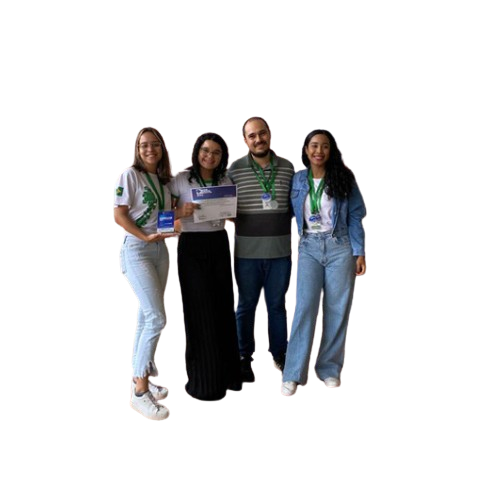
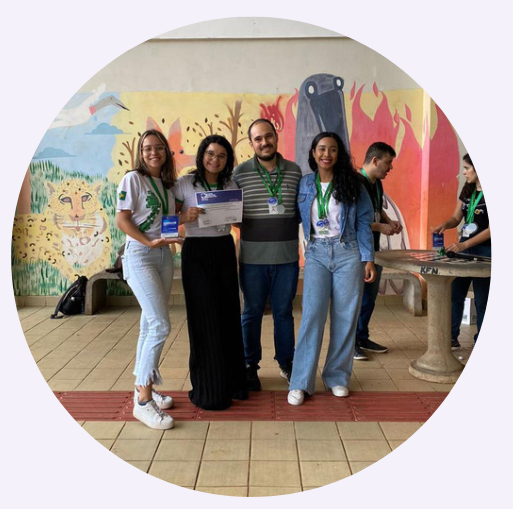
Modificacao na pag sobre e noticias

diff --git a/hiperagames-app/src/components/Telas/TDAHNews.vue b/hiperagames-app/src/components/Telas/TDAHNews.vue
@@ -1,14 +1,14 @@
 <template>
     <div class="fundo-branco">
-      <img class="logo" :src="logo3" />
-      <img class="linha" :src="logo4" />
+      <img class="logo" :src="logo" />
+      <img class="linha" :src="linha" />
       <br />
       <br />
       <br />
       <ul class="noticias">
         <li class="n1">
           <a>
-            <img class="imgNoticia" :src="logo5" />
+            <img class="imgNoticia" :src="nt1" />
             <div>
               <div>
                 <a
@@ -26,13 +26,13 @@
           </a>
           <br />
           <br />
-          <img class="linhall" :src="logo6" />
+          <img class="linhall" :src="linhall" />
           <br />
           <br />
         </li>
         <li class="n1">
           <a>
-            <img class="imgNoticia" :src="logo7" />
+            <img class="imgNoticia" :src="nt2" />
             <div>
               <div>
                 <a
@@ -53,13 +53,13 @@
           </a>
           <br />
           <br />
-          <img class="linhall" :src="logo6" />
+          <img class="linhall" :src="linhall" />
           <br />
           <br />
         </li>
         <li class="n1">
           <a>
-            <img class="imgNoticia" :src="logo8" />
+            <img class="imgNoticia" :src="nt3" />
             <div>
               <div>
                 <a
@@ -80,13 +80,13 @@
           </a>
           <br />
           <br />
-          <img class="linhall" :src="logo6" />
+          <img class="linhall" :src="linhall" />
           <br />
           <br />
         </li>
         <li class="n1">
           <a>
-            <img class="imgNoticia" :src="logo9" />
+            <img class="imgNoticia" :src="nt4" />
             <div>
               <div>
                 <a
@@ -106,13 +106,13 @@
           </a>
           <br />
           <br />
-          <img class="linhall" :src="logo6" />
+          <img class="linhall" :src="linhall" />
           <br />
           <br />
         </li>
         <li class="n1">
           <a>
-            <img class="imgNoticia" :src="logo10" />
+            <img class="imgNoticia" :src="nt5" />
             <div>
               <div>
                 <a
@@ -132,13 +132,13 @@
           </a>
           <br />
           <br />
-          <img class="linhall" :src="logo6" />
+          <img class="linhall" :src="linhall" />
           <br />
           <br />
         </li>
         <li class="n1">
           <a>
-            <img class="imgNoticia" :src="logo11" />
+            <img class="imgNoticia" :src="nt6" />
             <div>
               <div>
                 <a
@@ -159,13 +159,13 @@
           </a>
           <br />
           <br />
-          <img class="linhall" :src="logo6" />
+          <img class="linhall" :src="linhall" />
           <br />
           <br />
         </li>
         <li class="n1">
           <a>
-            <img class="imgNoticia" :src="logo12" />
+            <img class="imgNoticia" :src="nt7" />
             <div>
               <div>
                 <a
@@ -185,7 +185,7 @@
           </a>
           <br />
           <br />
-          <img class="linhall" :src="logo6" />
+          <img class="linhall" :src="linhall" />
           <br />
           <br />
         </li>
@@ -198,31 +198,33 @@
   <script>
   import Voltar from "@/components/Voltar.vue";
   
-  import logo3 from "@/assets/img/tdahnewslogo.png"
-  import logo4 from "@/assets/img/linha.png"
-  import logo5 from "@/assets/img/nt1.jpg"
-  import logo6 from "@/assets/img/nt2.jpg"
-  import logo7 from "@/assets/img/nt3.jpg"
-  import logo8 from "@/assets/img/nt4.jpg"
-  import logo9 from "@/assets/img/nt5.jpg"
-  import logo10 from "@/assets/img/nt6.jpg"
-  import logo11 from "@/assets/img/nt7.jpg"
-  import logo12 from "@/assets/img/nt8.jpeg"
+  import logo from "@/assets/img/tdahnewslogo.png"
+  import linha from "@/assets/img/linha.png"
+  import linhall from "@/assets/img/linhall.png"
+  import nt1 from "@/assets/img/nt1.jpg"
+  import nt2 from "@/assets/img/nt2.jpg"
+  import nt3 from "@/assets/img/nt3.jpg"
+  import nt4 from "@/assets/img/nt4.jpg"
+  import nt5 from "@/assets/img/nt5.jpg"
+  import nt6 from "@/assets/img/nt6.jpg"
+  import nt7 from "@/assets/img/nt7.jpg"
+  import nt8 from "@/assets/img/nt8.jpeg"
 
 
   export default {
     data() {
     return {
-      logo3: logo3,
-      logo4: logo4,
-      logo5: logo5,
-      logo6: logo6,
-      logo7: logo7,
-      logo8: logo8,
-      logo9: logo9,
-      logo10: logo10,
-      logo11: logo11,
-      logo12: logo12,
+      logo: logo,
+      linha: linha,
+      linhall: linhall,
+      nt1: nt1,
+      nt2: nt2,
+      nt3: nt3,
+      nt4: nt4,
+      nt5: nt5,
+      nt6: nt6,
+      nt7: nt7,
+      nt8: nt8,
     };
   },
     name: "TDAHNews",
@@ -243,13 +245,13 @@
   }
   
   .logo {
-    width: 390px;
+    width: 370px;
     height: 150px;
     margin-bottom: 5px;
     justify-content: center;
   }
   .linha {
-    width: 400px;
+    width: 370px;
     margin-bottom: 5px;
     justify-content: center;
   }

diff --git a/hiperagames-app/src/components/Telas/Sobre.vue b/hiperagames-app/src/components/Telas/Sobre.vue
@@ -65,7 +65,7 @@
   }
   
   .imgsobre {
-    border-radius: 500px;
+    border-radius: 400px;
     max-width: 80%;
     max-height: 50%;
     width: auto;
